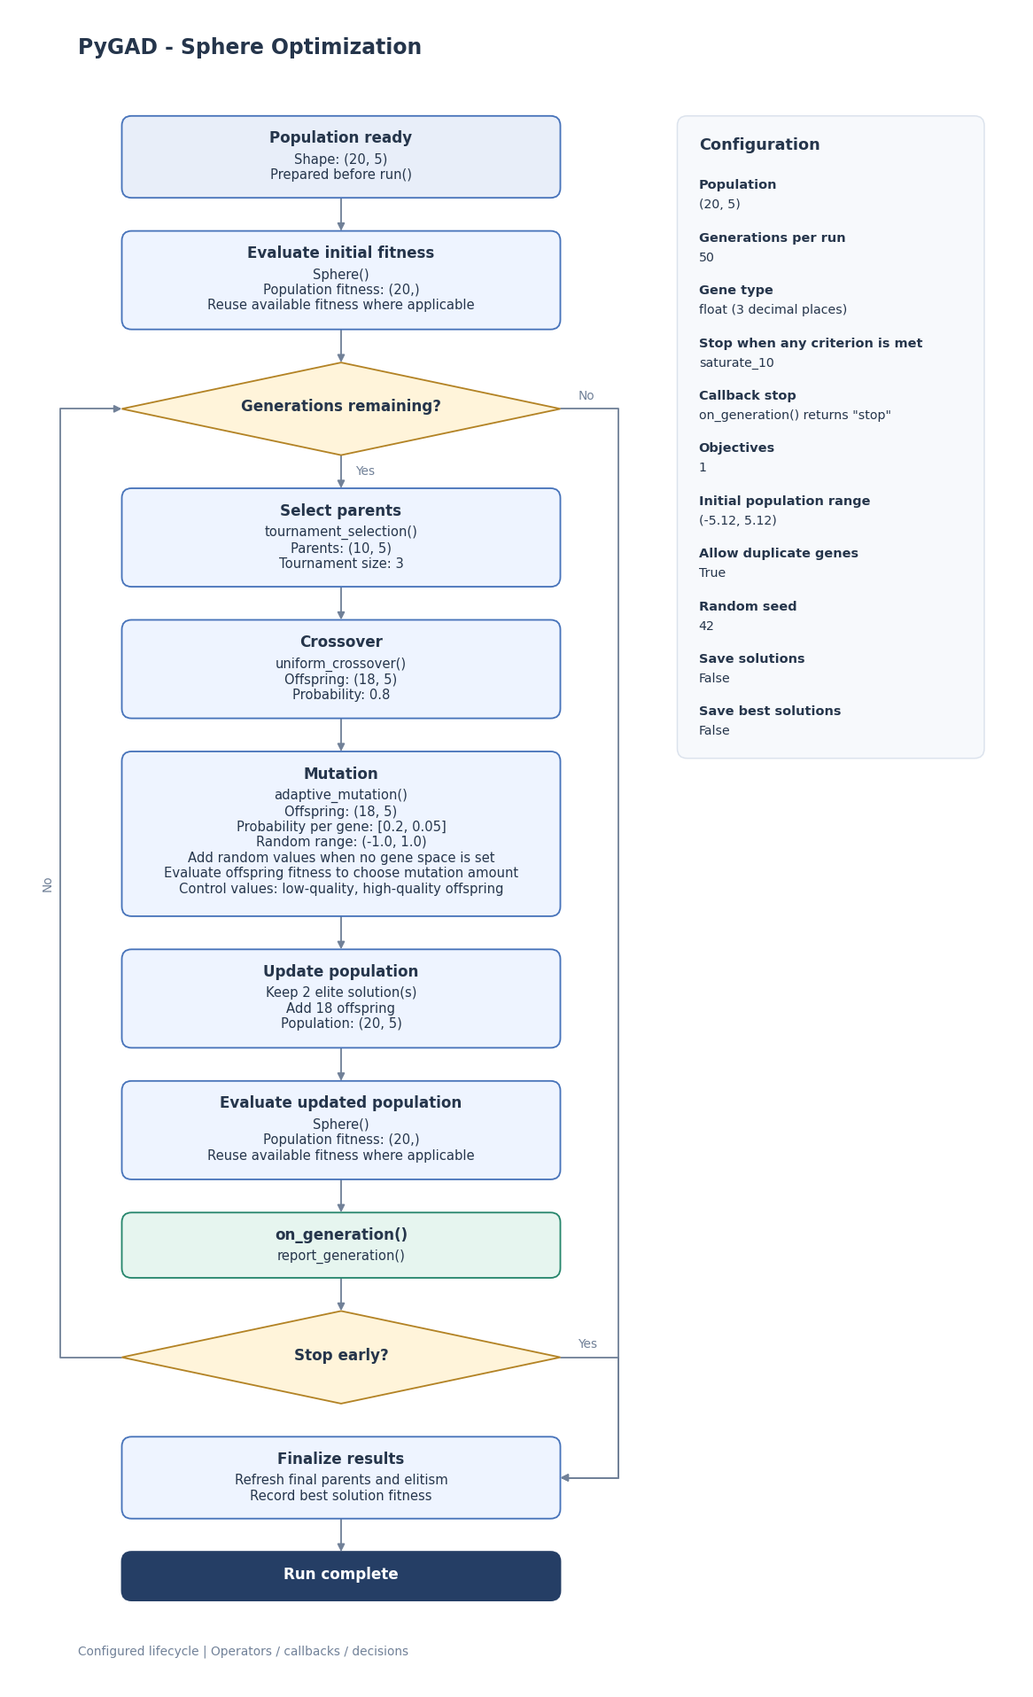
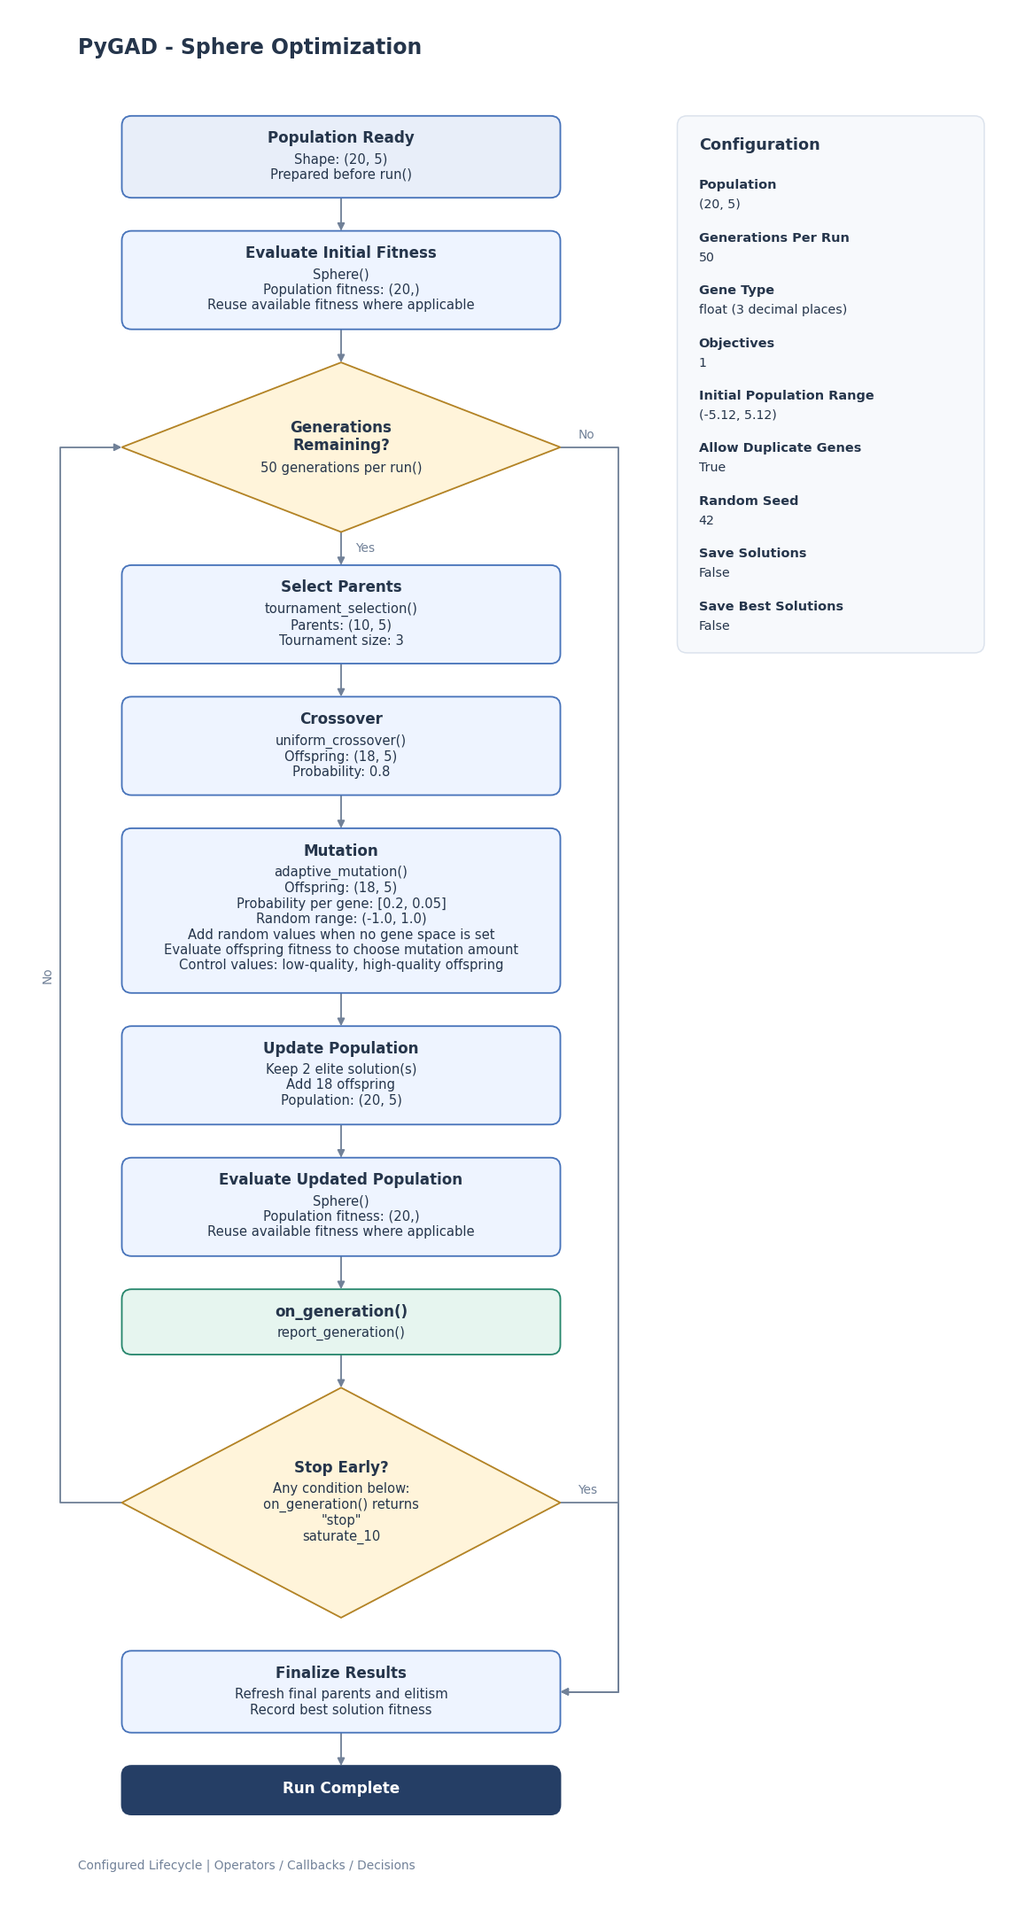
Clarify lifecycle chart titles and conditional stages

diff --git a/pygad/visualize/lifecycle.py b/pygad/visualize/lifecycle.py
@@ -79,32 +79,29 @@ def _describe_lifecycle(ga_instance, show_parameters=True):
         fitness_parameters.append(f"Batch size: {ga_instance.fitness_batch_size}")
     fitness_parameters.append("Reuse available fitness where applicable")
 
-    add_stage("population", "Population ready", "population",
+    add_stage("population", "Population Ready", "population",
               parameters=[f"Shape: {population_shape}", "Prepared before run()"])
     add_callback("on_start")
-    add_stage("initial_fitness", "Evaluate initial fitness", handler=ga_instance.fitness_func,
+    add_stage("initial_fitness", "Evaluate Initial Fitness", handler=ga_instance.fitness_func,
               parameters=fitness_parameters)
     if ga_instance.parent_selection_type in ("nsga3", "tournament_nsga3"):
-        add_stage("reference_points", "Prepare NSGA-III reference points",
+        add_stage("reference_points", "Prepare NSGA-III Reference Points",
                   parameters=[f"Divisions: {ga_instance.nsga3_num_divisions}",
                               "Grow population and evaluate added solutions if needed"])
 
-    add_stage("generation_check", "Generations remaining?", "decision",
+    add_stage("generation_check", "Generations Remaining?", "decision",
               parameters=[f"{ga_instance.num_generations} generations per run()"])
     add_callback("on_fitness")
 
     selection_parameters = [f"Parents: ({ga_instance.num_parents_mating}, {ga_instance.num_genes})"]
     if ga_instance.parent_selection_type in ("tournament", "tournament_nsga2", "tournament_nsga3"):
         selection_parameters.append(f"Tournament size: {ga_instance.K_tournament}")
-    add_stage("selection", "Select parents", handler=ga_instance.select_parents,
+    add_stage("selection", "Select Parents", handler=ga_instance.select_parents,
               parameters=selection_parameters)
     add_callback("on_parents")
 
     crossover_parameters = [f"Offspring: {offspring_shape}"]
-    if ga_instance.crossover_type is None:
-        add_stage("crossover", "Crossover bypassed", "bypass",
-                  parameters=["Copy existing solutions", f"Offspring: {offspring_shape}"])
-    else:
+    if ga_instance.crossover_type is not None:
         if not callable(ga_instance.crossover_type):
             if ga_instance.crossover_probability is not None:
                 crossover_parameters.append(f"Probability: {ga_instance.crossover_probability}")
@@ -116,10 +113,7 @@ def _describe_lifecycle(ga_instance, show_parameters=True):
     add_callback("on_crossover")
 
     mutation_parameters = [f"Offspring: {offspring_shape}"]
-    if ga_instance.mutation_type is None:
-        add_stage("mutation", "Mutation bypassed", "bypass",
-                  parameters=["Keep offspring unchanged", f"Offspring: {offspring_shape}"])
-    else:
+    if ga_instance.mutation_type is not None:
         if ga_instance.mutation_type in ("random", "adaptive", "polynomial"):
             if ga_instance.mutation_type == "polynomial":
                 probability = ga_instance.mutation_probability
@@ -157,10 +151,10 @@ def _describe_lifecycle(ga_instance, show_parameters=True):
         retention_text = f"Keep {ga_instance.keep_parents} parent(s)"
     else:
         retention_text = "Keep no parents or elite solutions"
-    add_stage("update_population", "Update population",
+    add_stage("update_population", "Update Population",
               parameters=[retention_text, f"Add {ga_instance.num_offspring} offspring",
                           f"Population: {population_shape}"])
-    add_stage("generation_fitness", "Evaluate updated population", handler=ga_instance.fitness_func,
+    add_stage("generation_fitness", "Evaluate Updated Population", handler=ga_instance.fitness_func,
               parameters=fitness_parameters)
     add_callback("on_generation")
 
@@ -171,14 +165,14 @@ def _describe_lifecycle(ga_instance, show_parameters=True):
         for criterion in ga_instance.stop_criteria:
             stopping_parameters.append("_".join(str(value) for value in criterion))
     if stopping_parameters:
-        add_stage("early_stop", "Stop early?", "decision",
-                  parameters=stopping_parameters)
+        add_stage("early_stop", "Stop Early?", "decision",
+                  parameters=["Any condition below:"] + stopping_parameters)
     last_generation_stage = stages[-1]["id"]
 
-    add_stage("finalize", "Finalize results",
+    add_stage("finalize", "Finalize Results",
               parameters=["Refresh final parents and elitism", "Record best solution fitness"])
     add_callback("on_stop")
-    add_stage("complete", "Run complete", "end")
+    add_stage("complete", "Run Complete", "end")
 
     connections = []
     for source, target in zip(stages, stages[1:]):
@@ -192,7 +186,7 @@ def _describe_lifecycle(ga_instance, show_parameters=True):
     connections.append({"source": "generation_check", "target": "finalize",
                         "label": "No", "route": "finish"})
     connections.append({"source": last_generation_stage, "target": "generation_check",
-                        "label": "No" if stopping_parameters else "Next generation",
+                        "label": "No" if stopping_parameters else "Next Generation",
                         "route": "repeat"})
     if stopping_parameters:
         connections.append({"source": "early_stop", "target": "finalize",
@@ -213,14 +207,8 @@ def _describe_lifecycle(ga_instance, show_parameters=True):
         gene_type_text = (gene_type_names[0] if ga_instance.gene_type_single
                           else "Per gene: " + _lifecycle_parameter_text(gene_type_names))
         configuration.extend([("Population", population_shape),
-                              ("Generations per run", str(ga_instance.num_generations)),
-                              ("Gene type", gene_type_text)])
-        if ga_instance.stop_criteria is not None:
-            criteria_text = ["_".join(str(value) for value in criterion)
-                             for criterion in ga_instance.stop_criteria]
-            configuration.append(("Stop when any criterion is met", ", ".join(criteria_text)))
-        if ga_instance.on_generation is not None:
-            configuration.append(("Callback stop", 'on_generation() returns "stop"'))
+                              ("Generations Per Run", str(ga_instance.num_generations)),
+                              ("Gene Type", gene_type_text)])
         if ga_instance.last_generation_fitness is not None:
             first_fitness = ga_instance.last_generation_fitness[0]
             objectives = len(first_fitness) if isinstance(first_fitness, (list, tuple, numpy.ndarray)) else 1
@@ -228,20 +216,20 @@ def _describe_lifecycle(ga_instance, show_parameters=True):
         else:
             configuration.append(("Objectives", "Known after fitness evaluation"))
         if ga_instance.gene_space is not None:
-            configuration.append(("Gene space", _lifecycle_parameter_text(ga_instance.gene_space)))
+            configuration.append(("Gene Space", _lifecycle_parameter_text(ga_instance.gene_space)))
         else:
-            configuration.append(("Initial population range", _lifecycle_parameter_text(
+            configuration.append(("Initial Population Range", _lifecycle_parameter_text(
                 (ga_instance.init_range_low, ga_instance.init_range_high))))
         if ga_instance.gene_constraint is not None:
             constraint_count = sum(constraint is not None for constraint in ga_instance.gene_constraint)
-            configuration.append(("Gene constraints", f"{constraint_count} constrained gene(s)"))
-        configuration.append(("Allow duplicate genes", str(ga_instance.allow_duplicate_genes)))
+            configuration.append(("Gene Constraints", f"{constraint_count} constrained gene(s)"))
+        configuration.append(("Allow Duplicate Genes", str(ga_instance.allow_duplicate_genes)))
         if ga_instance.parallel_processing is not None:
-            configuration.append(("Parallel fitness evaluation", _lifecycle_parameter_text(ga_instance.parallel_processing)))
+            configuration.append(("Parallel Fitness Evaluation", _lifecycle_parameter_text(ga_instance.parallel_processing)))
         if ga_instance.random_seed is not None:
-            configuration.append(("Random seed", str(ga_instance.random_seed)))
-        configuration.extend([("Save solutions", str(ga_instance.save_solutions)),
-                              ("Save best solutions", str(ga_instance.save_best_solutions))])
+            configuration.append(("Random Seed", str(ga_instance.random_seed)))
+        configuration.extend([("Save Solutions", str(ga_instance.save_solutions)),
+                              ("Save Best Solutions", str(ga_instance.save_best_solutions))])
 
     return {"stages": stages, "connections": connections,
             "configuration": configuration}
@@ -293,7 +281,6 @@ def _draw_lifecycle(lifecycle, matplt, title, font_size):
               "population": ("#e8eef9", "#4773ba"),
               "callback": ("#e6f5ef", "#26866c"),
               "decision": ("#fff4da", "#b38325"),
-              "bypass": ("#f1f3f5", "#8492a3"),
               "end": ("#253e65", "#253e65")}
     text_color = "#25354b"
     arrow_color = "#718198"
@@ -307,17 +294,16 @@ def _draw_lifecycle(lifecycle, matplt, title, font_size):
     current_top = 0.82 + 0.27 * len(title_lines)
 
     for stage in lifecycle["stages"]:
-        title_text = wrap_text(stage["title"], stage_width - 0.4, font_size, "bold")
+        # Put decision questions and their conditions inside the middle
+        # half of the diamond, where the sloping sides leave room for text.
+        text_width = stage_width / 2 - 0.2 if stage["kind"] == "decision" else stage_width - 0.4
+        title_text = wrap_text(stage["title"], text_width, font_size, "bold")
         detail_lines = []
-        # Decision settings live in the configuration panel. Keeping
-        # just the question in each diamond avoids crowded corners.
-        if stage["kind"] != "decision":
-            for detail in stage["details"]:
-                detail_lines.extend(wrap_text(detail, stage_width - 0.4, font_size * 0.88))
+        for detail in stage["details"]:
+            detail_lines.extend(wrap_text(detail, text_width, font_size * 0.88))
         stage_height = 0.30 + 0.20 * len(title_text) + 0.17 * len(detail_lines)
         if stage["kind"] == "decision":
-            # A broad diamond keeps its text inside the sloping edges.
-            stage_height = max(0.95, stage_height + 0.45)
+            stage_height = max(0.95, 2 * stage_height)
         stage_positions[stage["id"]] = {"top": current_top, "bottom": current_top + stage_height,
                                          "center": current_top + stage_height / 2,
                                          "height": stage_height}
@@ -340,7 +326,7 @@ def _draw_lifecycle(lifecycle, matplt, title, font_size):
     axes.axis("off")
     axes.text(0.7, 0.28, "\n".join(title_lines), fontsize=font_size * 1.4,
               weight="bold", color=text_color, va="top", parse_math=False)
-    axes.text(0.7, current_top + 0.12, "Configured lifecycle | Operators / callbacks / decisions",
+    axes.text(0.7, current_top + 0.12, "Configured Lifecycle | Operators / Callbacks / Decisions",
               fontsize=font_size * 0.82, color=arrow_color, va="top", parse_math=False)
 
     for stage, title_text, detail_lines in wrapped_stages:
@@ -356,8 +342,7 @@ def _draw_lifecycle(lifecycle, matplt, title, font_size):
             card = FancyBboxPatch((stage_center - stage_width / 2, position["top"]),
                                  stage_width, position["height"],
                                  boxstyle="round,pad=0,rounding_size=0.10",
-                                 facecolor=fill_color, edgecolor=border_color, linewidth=1.2,
-                                 linestyle="--" if stage["kind"] == "bypass" else "-")
+                                 facecolor=fill_color, edgecolor=border_color, linewidth=1.2)
         axes.add_patch(card)
         text_top = position["center"] - (0.20 * len(title_text) + 0.17 * len(detail_lines)) / 2
         stage_text_color = "#ffffff" if stage["kind"] == "end" else text_color

diff --git a/tests/test_plot_lifecycle.py b/tests/test_plot_lifecycle.py
@@ -72,7 +72,7 @@ def test_plot_lifecycle_before_run_has_no_execution_side_effects():
         matplt.close(fig)
 
 
-def test_lifecycle_callback_order_matches_execution_with_bypassed_operators():
+def test_lifecycle_callback_order_matches_execution_with_disabled_operators():
     events = []
 
     def fitness_func_recorded(ga_instance, solution, solution_idx):
@@ -110,8 +110,8 @@ def test_lifecycle_callback_order_matches_execution_with_bypassed_operators():
                                      on_generation=on_generation, on_stop=on_stop)
     lifecycle = _describe_lifecycle(ga_instance)
     stages = {stage["id"]: stage for stage in lifecycle["stages"]}
-    assert stages["crossover"]["kind"] == "bypass"
-    assert stages["mutation"]["kind"] == "bypass"
+    assert "crossover" not in stages
+    assert "mutation" not in stages
     assert stages["generation_fitness"]["details"][0] == "fitness_func_recorded()"
 
     ga_instance.run()
@@ -209,7 +209,7 @@ def test_lifecycle_multi_objective_after_run(parent_selection_type):
         labels = figure_text(fig)
         assert "Population fitness: (8, 2)" in labels
         assert "Known after fitness evaluation" not in labels
-        assert ("Prepare NSGA-III reference points" in labels) == (parent_selection_type == "nsga3")
+        assert ("Prepare NSGA-III Reference Points" in labels) == (parent_selection_type == "nsga3")
         assert ga_instance.num_fitness_evaluations == original_evaluation_count
         numpy.testing.assert_array_equal(ga_instance.last_generation_fitness, original_fitness)
     finally:
@@ -259,6 +259,93 @@ def test_lifecycle_polynomial_mutation_and_sbx_parameters():
         # is supplied, rather than mutation_num_genes.
         assert "Probability per gene: 0.25" in labels
         assert "Genes to mutate:" not in labels
+    finally:
+        matplt.close(fig)
+
+
+@pytest.mark.parametrize("crossover_type,mutation_type", [
+    (None, None), (None, "random"), ("single_point", None), ("single_point", "random"),
+])
+def test_lifecycle_only_shows_enabled_operators(crossover_type, mutation_type):
+    ga_instance = create_ga_instance(crossover_type=crossover_type, mutation_type=mutation_type)
+    lifecycle = _describe_lifecycle(ga_instance)
+    stage_identifiers = {stage["id"] for stage in lifecycle["stages"]}
+    assert ("crossover" in stage_identifiers) == (crossover_type is not None)
+    assert ("mutation" in stage_identifiers) == (mutation_type is not None)
+    # Skipping operators must reconnect the remaining stages without
+    # leaving an arrow to a block that is no longer drawn.
+    for connection in lifecycle["connections"]:
+        assert connection["source"] in stage_identifiers
+        assert connection["target"] in stage_identifiers
+    fig = ga_instance.plot_lifecycle(show=False)
+    try:
+        labels = figure_text(fig).splitlines()
+        assert ("Crossover" in labels) == (crossover_type is not None)
+        assert ("Mutation" in labels) == (mutation_type is not None)
+    finally:
+        matplt.close(fig)
+
+
+@pytest.mark.parametrize("with_callback,stop_criteria", [
+    (False, None), (True, None), (False, ["reach_20", "saturate_3"]),
+    (True, ["reach_20", "time_10", "evaluations_100"]),
+])
+def test_lifecycle_stop_conditions_appear_inside_the_decision(with_callback, stop_criteria):
+    def on_generation(ga_instance):
+        # Drawing cannot predict this callback's result; it should
+        # describe the possible stop even when the function returns None.
+        return None
+
+    ga_instance = create_ga_instance(on_generation=on_generation if with_callback else None,
+                                     stop_criteria=stop_criteria)
+    fig = ga_instance.plot_lifecycle(show=False)
+    try:
+        fig.canvas.draw()
+        renderer = fig.canvas.get_renderer()
+        axes = fig.axes[0]
+        decisions = [card for card in axes.patches if isinstance(card, matplotlib.patches.Polygon)]
+        assert len(decisions) == (2 if with_callback or stop_criteria else 1)
+        if not with_callback and not stop_criteria:
+            assert "Stop Early?" not in figure_text(fig)
+            return
+        stop_decision = decisions[-1]
+        decision_path = stop_decision.get_path().transformed(stop_decision.get_transform())
+        decision_texts = [text for text in axes.texts
+                          if stop_decision.get_window_extent(renderer).contains(
+                              *text.get_window_extent(renderer).get_points()[0])]
+        labels = "\n".join(text.get_text().replace("\n", " ") for text in decision_texts)
+        assert "Stop Early?" in labels
+        assert ('on_generation() returns "stop"' in labels) == with_callback
+        for criterion in ga_instance.stop_criteria or []:
+            assert "_".join(str(value) for value in criterion) in labels
+        for text in decision_texts:
+            text_bounds = text.get_window_extent(renderer)
+            corners = [(text_bounds.x0, text_bounds.y0), (text_bounds.x1, text_bounds.y0),
+                       (text_bounds.x0, text_bounds.y1), (text_bounds.x1, text_bounds.y1)]
+            assert decision_path.contains_points(corners).all(), text.get_text()
+    finally:
+        matplt.close(fig)
+
+
+def test_lifecycle_titles_use_capital_initials_and_preserve_method_names():
+    def on_generation(ga_instance):
+        return None
+
+    ga_instance = create_ga_instance(on_generation=on_generation)
+    lifecycle = _describe_lifecycle(ga_instance)
+    for stage in lifecycle["stages"]:
+        if stage["kind"] == "callback":
+            assert stage["title"] == stage["id"] + "()"
+        else:
+            assert all(word[0].isupper() for word in stage["title"].split())
+    for label, value in lifecycle["configuration"]:
+        assert all(word[0].isupper() for word in label.split())
+    fig = ga_instance.plot_lifecycle(show=False)
+    try:
+        labels = figure_text(fig)
+        assert "fitness_func()" in labels
+        assert "on_generation()" in labels
+        assert "On_Generation()" not in labels
     finally:
         matplt.close(fig)
 

diff --git a/pygad/visualize/plot.py b/pygad/visualize/plot.py
@@ -47,8 +47,10 @@ class Plot:
         font_size : numeric
             Positive font size. The figure scales with the font size.
         show_parameters : bool
-            If True, include stage parameters and a configuration
-            panel. If False, show a compact chart with handler names.
+            If True, include stage parameters, decision conditions,
+            and a configuration panel. If False, show a compact chart
+            with handler names. Disabled operators and unset callbacks
+            are omitted in either view.
         save_dir : str or None
             If set, save the figure to this path. The extension
             determines the format, for example SVG, PNG, or PDF.

diff --git a/docs/source/visualize.md b/docs/source/visualize.md
@@ -36,7 +36,9 @@ ga_instance.plot_lifecycle()
 
 Operator cards show handler names, relevant probabilities, and parent or offspring shapes. The population update shows the effective retention policy: `keep_elitism` takes precedence over `keep_parents`. The configuration panel shows population size, generations per `run()`, gene types and precision, gene space or initialization range, constraints, and saving settings. Fitness batching and parallel processing appear when configured. Long gene configurations are abbreviated to keep the chart readable.
 
-Callbacks appear only when supplied. If `crossover_type=None` or `mutation_type=None`, the corresponding card is marked as bypassed. Configured `on_crossover` and `on_mutation` callbacks still appear because they run even when the operator is disabled. Adaptive mutation includes its additional offspring fitness evaluation, and NSGA-III includes reference-point preparation. NSGA-III may grow the population during this preparation; shapes in a chart drawn before `run()` describe the current configuration.
+Callbacks appear only when supplied. If `crossover_type=None` or `mutation_type=None`, the corresponding operator card is omitted and the remaining stages are connected directly. Configured `on_crossover` and `on_mutation` callbacks still appear because they run even when the operator is disabled. Adaptive mutation includes its additional offspring fitness evaluation, and NSGA-III includes reference-point preparation. NSGA-III may grow the population during this preparation; shapes in a chart drawn before `run()` describe the current configuration.
+
+In the detailed view, the `Stop Early?` block lists the configured `stop_criteria` and, when an `on_generation` callback is supplied, the possible condition `on_generation() returns "stop"`. Any one of these conditions ends the run. The chart does not analyze the callback's code or assume that it will return `"stop"`. The block is omitted when neither early stopping mechanism is configured. Built-in block and configuration titles capitalize the first letter of each word; method and handler names retain their original spelling.
 
 Parameters: `title` (default `"PyGAD - Lifecycle"`), `font_size` (default `11`, finite and positive), `show_parameters` (default `True`), `save_dir` (default `None`), `show` (default `True`).
 

diff --git a/docs/source/lifecycle.md b/docs/source/lifecycle.md
@@ -28,7 +28,7 @@ Call `plot_lifecycle()` to create a chart adjusted to the operators, callbacks, 
 ga_instance.plot_lifecycle()
 ```
 
-The chart shows the generation loop and exit paths. It includes population replacement and fitness evaluation before `on_generation`, and marks disabled crossover or mutation as bypassed. Configured callbacks still appear at their execution points.
+The chart shows the generation loop and exit paths. It includes population replacement and fitness evaluation before `on_generation`, and omits disabled crossover or mutation. Configured callbacks still appear at their execution points, including `on_crossover` and `on_mutation` when their corresponding operators are disabled. The detailed `Stop Early?` block lists the configured stopping criteria and the possible `"stop"` return from `on_generation`, when that callback is supplied.
 
 Use `show_parameters=False` for a compact chart, or save the figure by passing `save_dir`. The filename extension selects the output format.
 
